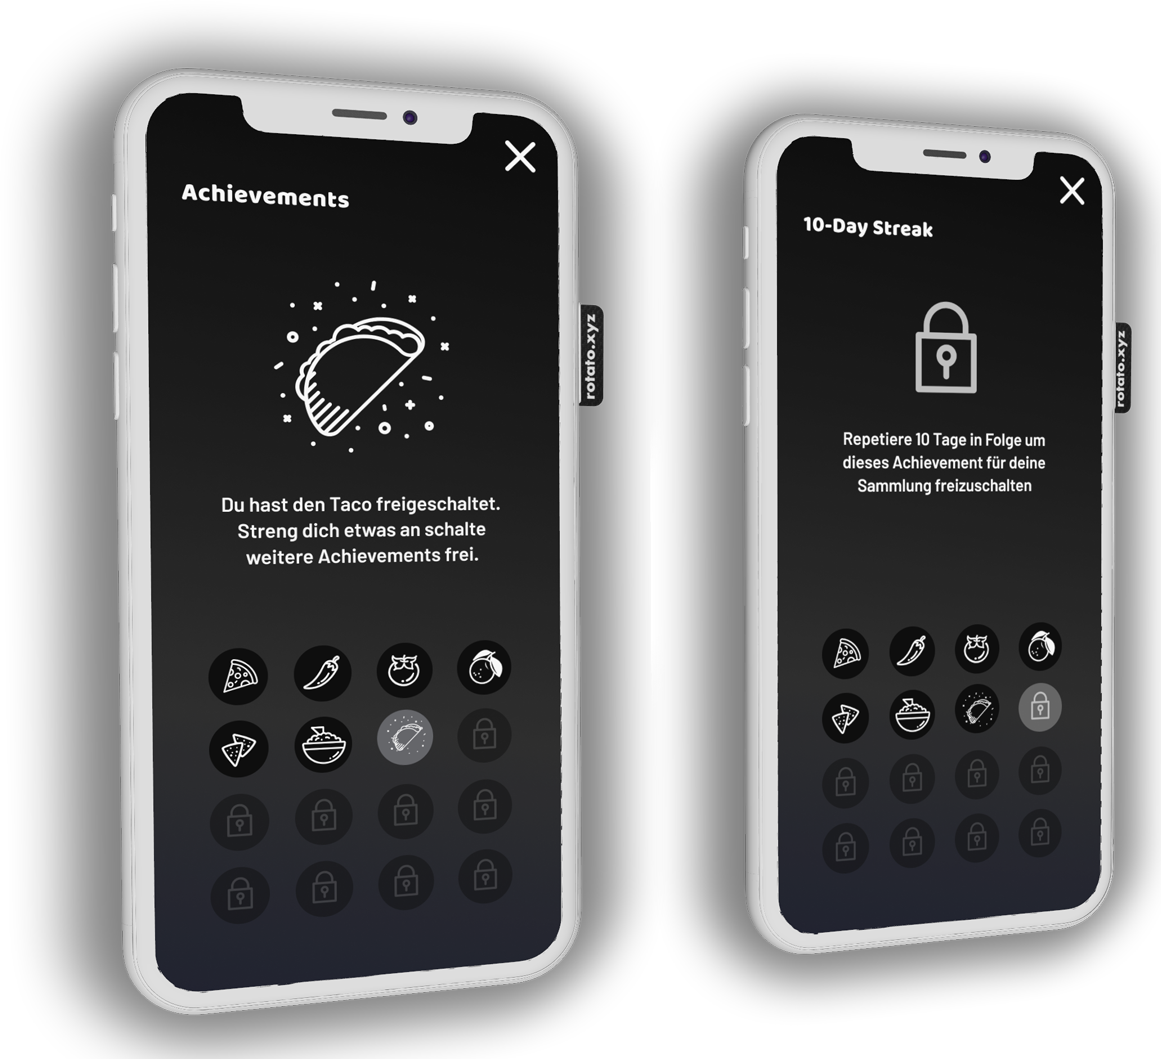
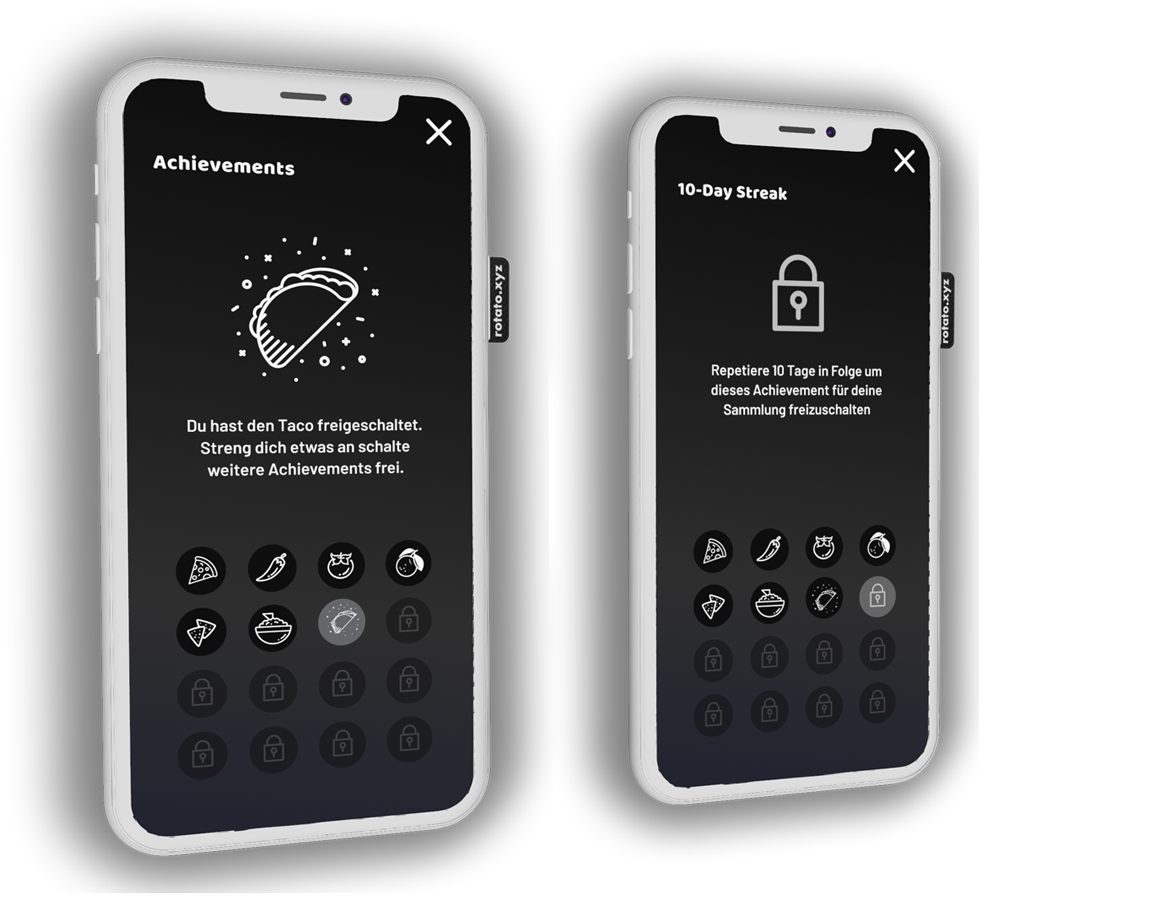
Bildgrössen anpassen

diff --git a/bocado.html b/bocado.html
@@ -271,7 +271,7 @@ Die Aufgabe bestand darin, eine digitale Lernplattform zu erarbeiten, welche sic
      <!-- <img src="img/bocado/rotato_movie.gif" alt="Startscreen Bocado App">
      <figcaption>Unsere App ist fertig!</figcaption> -->
      
-     <img src="img/bocado/Rotato-Snapshot6_low1.png" alt="Ausschnitt App Übersicht aller Module">
+     <img class="hochformatig" src="img/bocado/Rotato-Snapshot6_low1.png" alt="Ausschnitt App Übersicht aller Module">
      <figcaption>Übersicht aller laufenden Module mit Fortschrittsanzeige</figcaption>
      
 

diff --git a/css/arbeiten.css b/css/arbeiten.css
@@ -153,3 +153,7 @@ figcaption {
   padding-top: 2%;
 }
 
+.hochformatig {
+	width: 50%;
+}
+
